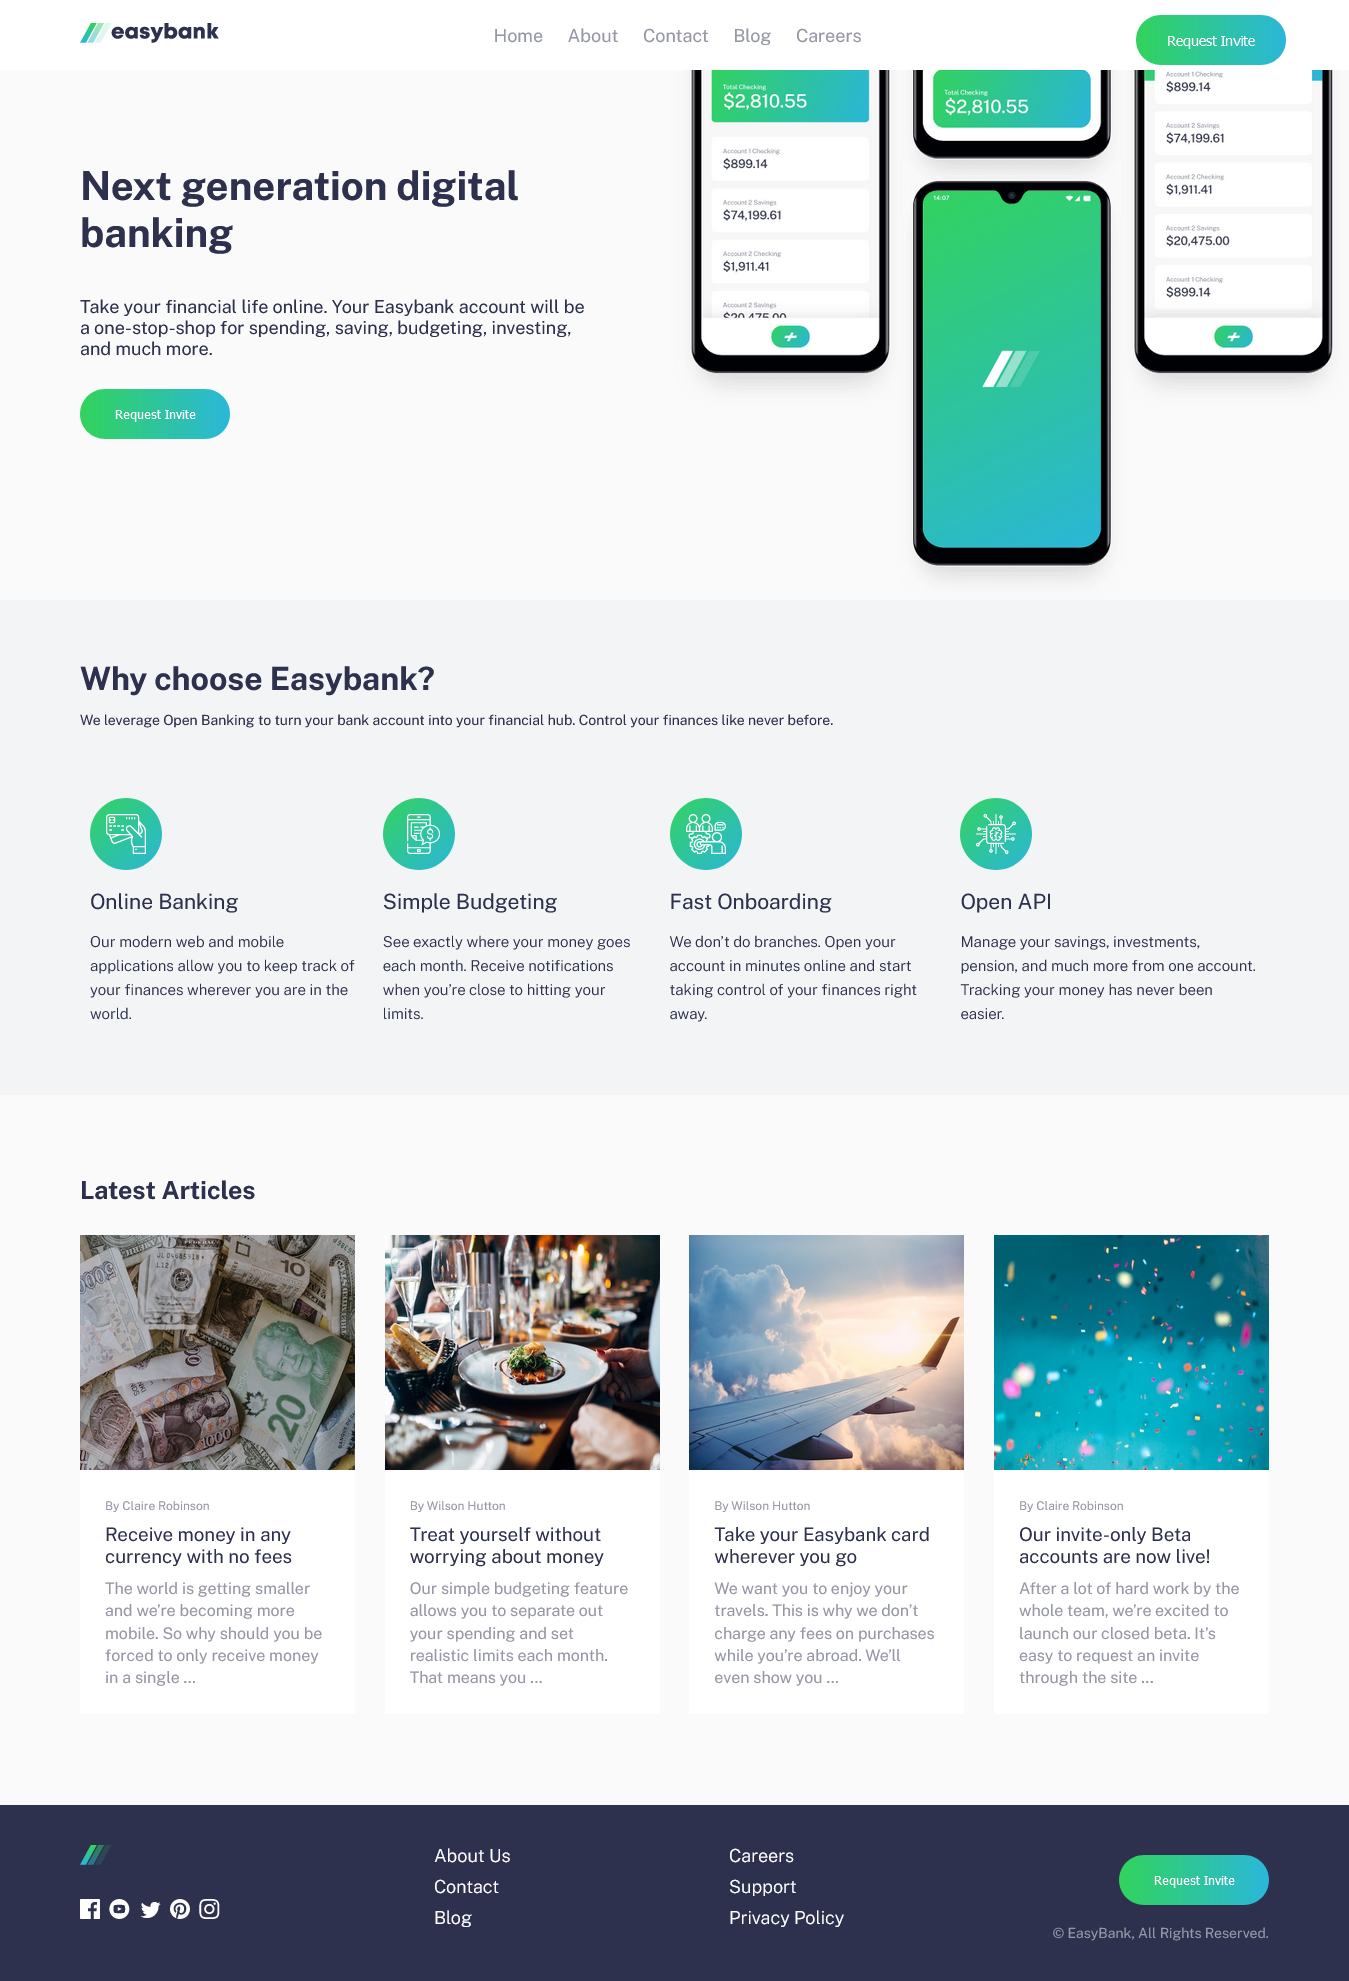
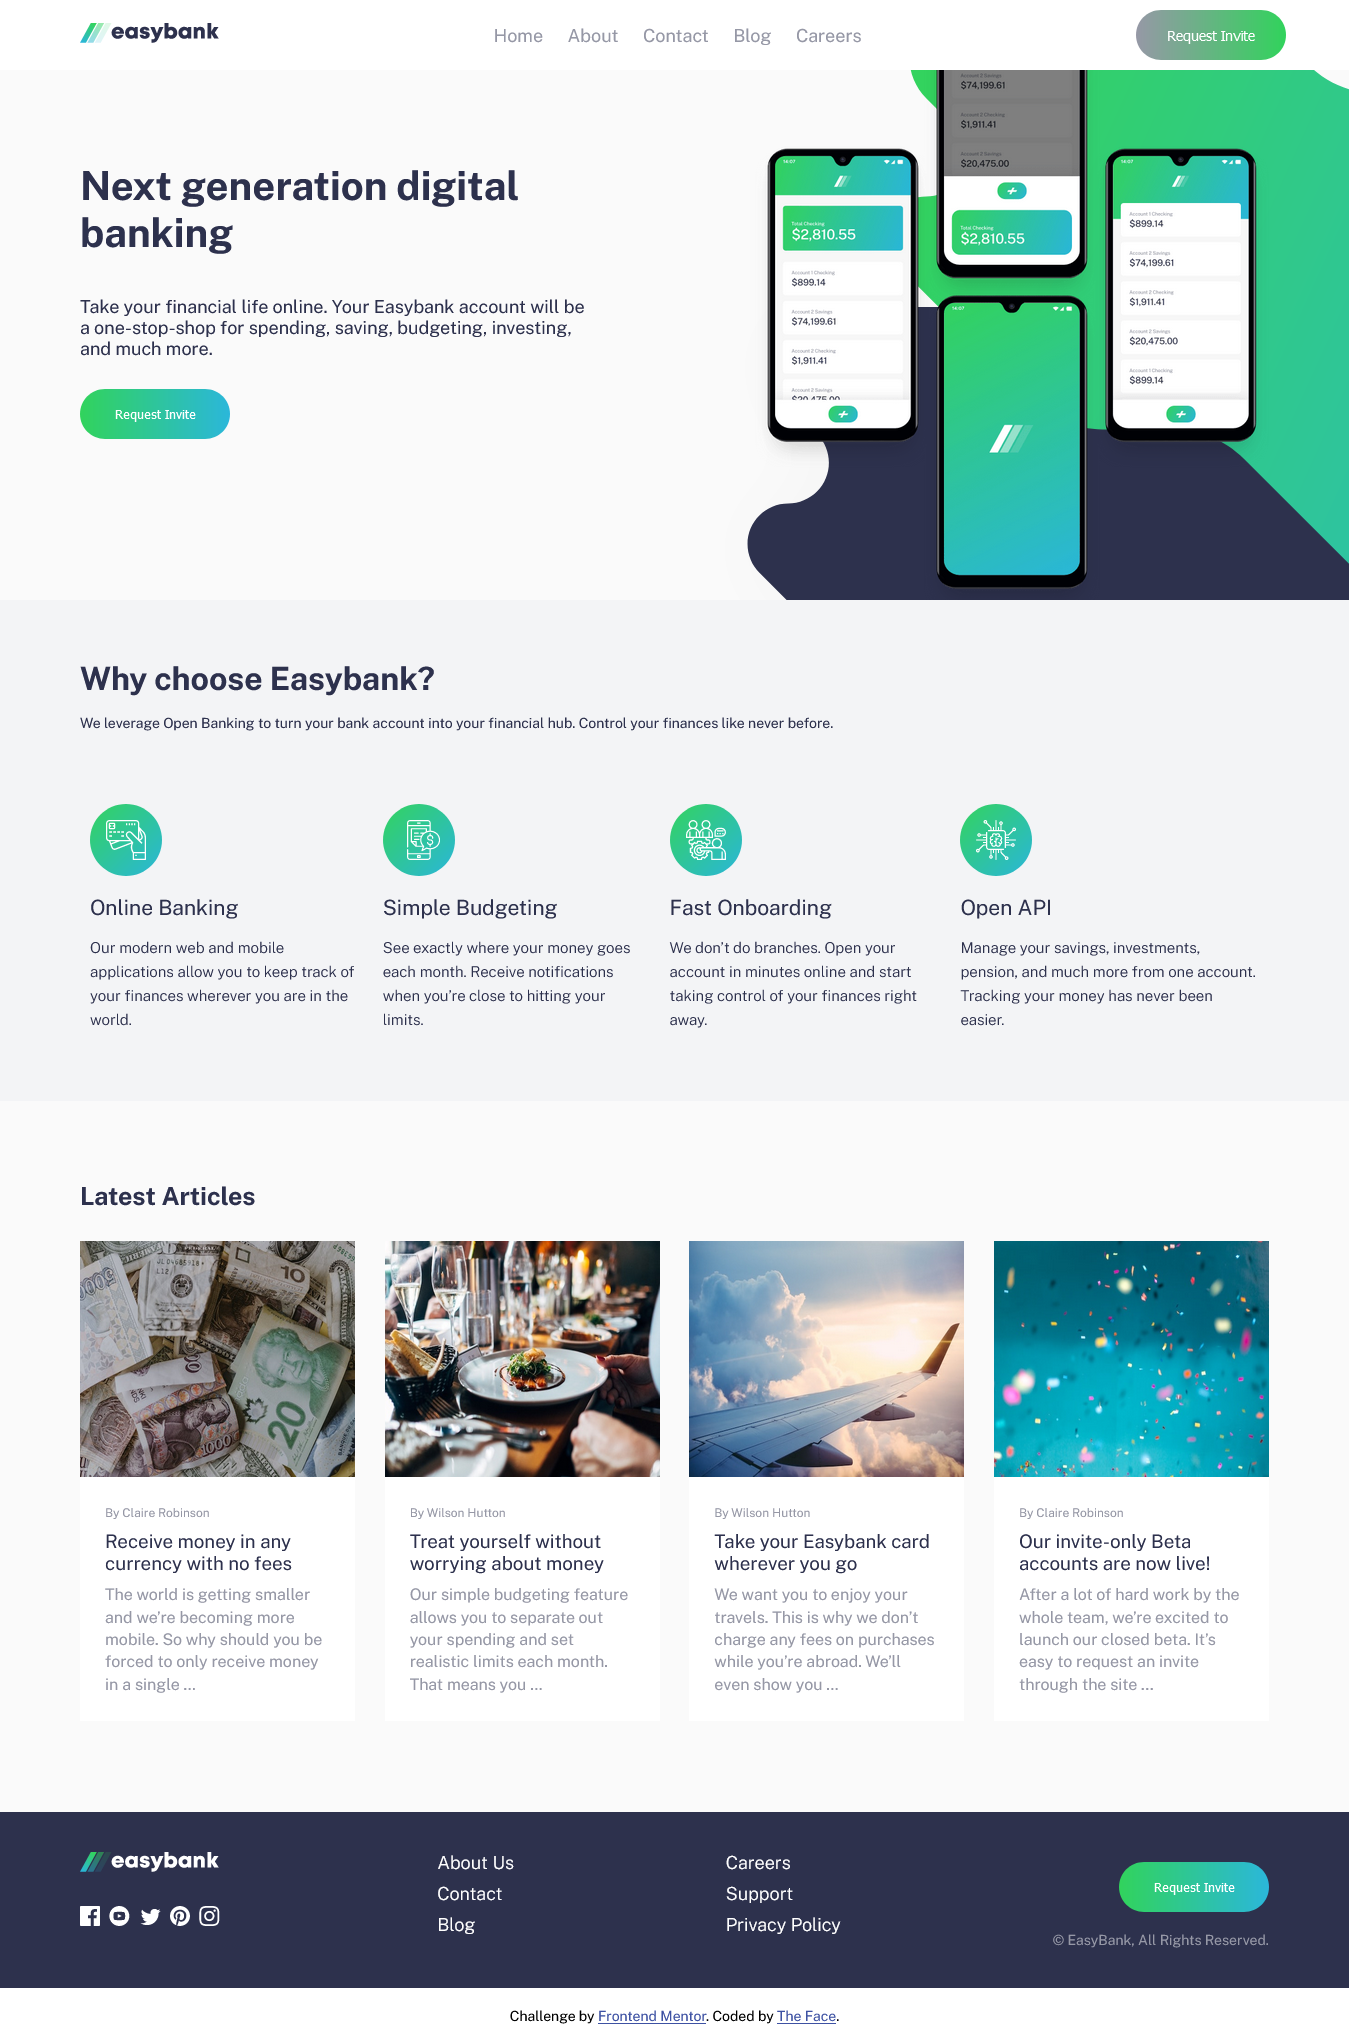
Updating

diff --git a/index.html b/index.html
@@ -13,35 +13,22 @@
     />
     <link rel="stylesheet" href="style.css" />
     <title>Frontend Mentor | Easybank landing page</title>
-
-    <!-- Feel free to remove these styles or customise in your own stylesheet 👍 -->
-    <style>
-      .attribution {
-        font-size: 11px;
-        text-align: center;
-      }
-      .attribution a {
-        color: hsl(228, 45%, 44%);
-      }
-    </style>
   </head>
   <body>
-    <div class="nav container">
+    <nav class="nav container">
       <div class="imgs">
-        <img src="./images/logo.svg" alt="" />
-        <img src="./images/icon-hamburger.svg" class="open" />
+        <img src="./images/logo.svg" alt="Easy Bank" />
+        <img src="./images/icon-hamburger.svg" alt="open" class="open" />
       </div>
-      <div class="menu" role="navigation">
-        <ul>
-          <li><a href="#">Home</a></li>
-          <li><a href="#">About</a></li>
-          <li><a href="#">Contact </a></li>
-          <li><a href="#">Blog</a></li>
-          <li><a href="#">Careers</a></li>
-        </ul>
-      </div>
+      <ul class="menu" role="navigation">
+        <li><a href="#">Home</a></li>
+        <li><a href="#">About</a></li>
+        <li><a href="#">Contact </a></li>
+        <li><a href="#">Blog</a></li>
+        <li><a href="#">Careers</a></li>
+      </ul>
       <button>Request Invite</button>
-    </div>
+    </nav>
     <div class="banner" role="banner">
       <div>
         <h1>Next generation digital banking</h1>
@@ -52,7 +39,9 @@
         </p>
         <button>Request Invite</button>
       </div>
-      <img src="./images/image-mockups.png" alt="" />
+      <div class="images">
+        <img src="./images/image-mockups.png" alt="Hero" />
+      </div>
     </div>
     <div class="why-us" role="main">
       <div>
@@ -64,7 +53,7 @@
       </div>
       <div class="tips">
         <div>
-          <img src="./images/icon-online.svg" alt="" />
+          <img src="./images/icon-online.svg" alt="Online Banking" />
           <h3>Online Banking</h3>
           <p>
             Our modern web and mobile applications allow you to keep track of
@@ -72,7 +61,7 @@
           </p>
         </div>
         <div>
-          <img src="./images/icon-budgeting.svg" alt="" />
+          <img src="./images/icon-budgeting.svg" alt="Simple Budgeting" />
           <h3>Simple Budgeting</h3>
           <p>
             See exactly where your money goes each month. Receive notifications
@@ -80,7 +69,7 @@
           </p>
         </div>
         <div>
-          <img src="./images/icon-onboarding.svg" alt="" />
+          <img src="./images/icon-onboarding.svg" alt="Fast Onboarding" />
           <h3>Fast Onboarding</h3>
           <p>
             We don’t do branches. Open your account in minutes online and start
@@ -88,7 +77,7 @@
           </p>
         </div>
         <div>
-          <img src="./images/icon-api.svg" alt="" />
+          <img src="./images/icon-api.svg" alt="Open API" />
           <h3>Open API</h3>
           <p>
             Manage your savings, investments, pension, and much more from one
@@ -101,7 +90,7 @@
       <h2>Latest Articles</h2>
       <div class="article">
         <div>
-          <img src="./images/image-currency.jpg" alt="" />
+          <img src="./images/image-currency.jpg" alt="Cash" />
           <div>
             <p class="author">By Claire Robinson</p>
             <h3 class="title">Receive money in any currency with no fees</h3>
@@ -112,7 +101,7 @@
           </div>
         </div>
         <div>
-          <img src="./images/image-restaurant.jpg" alt="" />
+          <img src="./images/image-restaurant.jpg" alt="Restaurant" />
           <div>
             <p class="author">By Wilson Hutton</p>
             <h3 class="title">Treat yourself without worrying about money</h3>
@@ -123,7 +112,7 @@
           </div>
         </div>
         <div>
-          <img src="./images/image-plane.jpg" alt="" />
+          <img src="./images/image-plane.jpg" alt="Airplane" />
           <div>
             <p class="author">By Wilson Hutton</p>
             <h3 class="title">Take your Easybank card wherever you go</h3>
@@ -134,7 +123,7 @@
           </div>
         </div>
         <div>
-          <img src="./images/image-confetti.jpg" alt="" />
+          <img src="./images/image-confetti.jpg" alt="Live now" />
           <div>
             <p class="author">By Claire Robinson</p>
             <h3 class="title">Our invite-only Beta accounts are now live!</h3>
@@ -170,22 +159,22 @@
           </g>
         </svg>
         <br />
-        <img src="./images/icon-facebook.svg" alt="" />
-        <img src="./images/icon-youtube.svg" alt="" />
-        <img src="./images/icon-twitter.svg" alt="" />
-        <img src="./images/icon-pinterest.svg" alt="" />
-        <img src="./images/icon-instagram.svg" alt="" />
+        <img src="./images/icon-facebook.svg" alt="facebook" />
+        <img src="./images/icon-youtube.svg" alt="youtube" />
+        <img src="./images/icon-twitter.svg" alt="twitter" />
+        <img src="./images/icon-pinterest.svg" alt="pinterest" />
+        <img src="./images/icon-instagram.svg" alt="instagram" />
       </div>
-      <div>
+      <ul>
         <li><a href="#">About Us</a></li>
         <li><a href="#">Contact</a></li>
         <li><a href="#">Blog</a></li>
-      </div>
-      <div>
+      </ul>
+      <ul>
         <li><a href="#">Careers</a></li>
         <li><a href="#">Support</a></li>
         <li><a href="#">Privacy Policy</a></li>
-      </div>
+      </ul>
       <div class="copyright">
         <button>Request Invite</button>
         <p>&copy; EasyBank, All Rights Reserved.</p>
@@ -199,13 +188,13 @@
     </div>
     <script>
       const open = document.querySelector(".open");
-      const nav = document.querySelector(".menu");
+      const navbar = document.querySelector(".menu");
       document.querySelector(".open").addEventListener("click", () => {
-        nav.style.display === "none"
-          ? (nav.style.display = "block")(
+        navbar.style.display === "none"
+          ? (navbar.style.display = "block")(
               open.setAttribute("src", "./images/icon-close.svg")
             )
-          : (nav.style.display = "none")(
+          : (navbar.style.display = "none")(
               open.setAttribute("src", "./images/icon-hamburger.svg")
             );
       });

diff --git a/style.css b/style.css
@@ -31,7 +31,7 @@ body {
   margin: 10px;
 }
 
-.menu {
+.nav ul {
   display: block;
 }
 
@@ -52,6 +52,7 @@ body {
   background: linear-gradient(90deg, hsl(136, 65%, 51%), hsl(192, 70%, 51%));
   color: hsl(0, 0%, 100%);
   font-size: 14px;
+  margin: 0;
 }
 
 .banner {
@@ -60,6 +61,7 @@ body {
   background: hsl(0, 0%, 98%);
   height: 600px;
   justify-content: space-between;
+  overflow: hidden;
 }
 
 .banner div {
@@ -72,8 +74,11 @@ body {
   padding: 80px;
 }
 
+.images {
+  background: url("./images/bg-intro-desktop.svg");
+}
 .banner img {
-  width: 50%;
+  width: 100%;
 
   height: fit-content;
 }
@@ -126,6 +131,15 @@ button:hover {
   font-size: 14px;
   color: hsl(233, 26%, 24%);
   line-height: 1.6;
+}
+
+.attribution {
+  font-size: 14px;
+  text-align: center;
+  margin-top: 20px;
+}
+.attribution a {
+  color: hsl(228, 45%, 44%);
 }
 
 .tips {
@@ -221,13 +235,13 @@ button:hover {
   list-style: none;
 }
 
-.footer div a {
+.footer ul a {
   color: hsl(0, 0%, 100%);
   text-decoration: none;
   font-weight: 300;
 }
 
-.footer div a:hover {
+.footer ul a:hover {
   color: hsl(136, 65%, 51%);
 }
 
@@ -316,7 +330,8 @@ button:hover {
     align-items: center; */
   }
 
-  .footer div {
+  .footer div,
+  .footer ul {
     margin-top: 5px;
     width: 100%;
     text-align: center;
@@ -357,12 +372,12 @@ button:hover {
     position: relative; */
   }
 
-  .menu {
+  ul.menu {
     display: none;
     height: 350px;
     width: 100%;
     text-align: center;
-    transition: 1.5s ease-in;
+
     padding: 30px;
     box-sizing: border-box;
   }
@@ -375,5 +390,10 @@ button:hover {
     display: flex;
     justify-content: space-between;
     width: 100%;
+  }
+
+  .images {
+    /* background: unset; */
+    background: url("./images/bg-intro-mobile.svg");
   }
 }
